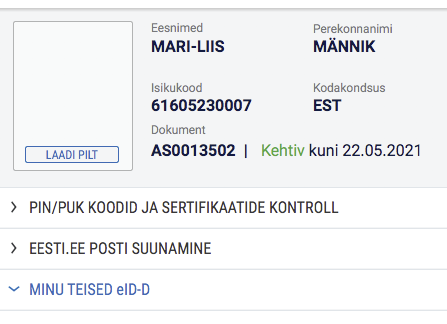
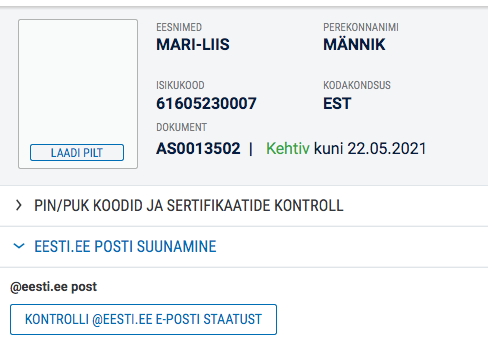
Remove "Manage Mobile ID" from First Run page (#234)
- IB-5222

diff --git a/client/translations/ru.ts b/client/translations/ru.ts
@@ -1133,8 +1133,8 @@ Learn more info here:</source>
         <translation>DigiDoc приложение может использоваться для шифрования и расшифровки данных. Для шифрования программа использует сертификат идентификации ID-карты.</translation>
     </message>
     <message>
-        <source>Manage your ID-card’s PIN/PUK codes and handle certificate renewals. View and manage your other electronic identities.</source>
-        <translation>Управлять PIN/PUK кодами Вашей ID-карты и обновлением сертификатов. Просма&#173;тривать и управлять другими Вашими электронными удостоверениями (eID).</translation>
+        <source>Manage your ID-card’s PIN/PUK codes and handle certificate renewals.</source>
+        <translation>Управлять PIN/PUK кодами Вашей ID-карты и обновлением сертификатов.</translation>
     </message>
     <message>
         <source>How to sign document digitally?</source>
@@ -1197,20 +1197,12 @@ Learn more info here:</source>
         <translation>Управление PIN и PUK кодами</translation>
     </message>
     <message>
-        <source>Manage Mobile-ID or Digi-ID</source>
-        <translation>Управление Mobiil-ID и Digi-ID</translation>
-    </message>
-    <message>
         <source>Check personal data</source>
         <translation>Проверка личных данных</translation>
     </message>
     <message>
         <source>Under "My eID", you will find the option to modify your PIN1, PIN2 and PUK, and the details of the certificates. Here you can also unlock the PUK code of your blocked PIN.</source>
         <translation>В «Мой eID» можно изменить свои PIN1, PIN2 и PUK, и увидеть данные сертификатов. Также можно разблокировать PUK-кодом заблокированный PIN-код.</translation>
-    </message>
-    <message>
-        <source>To view information about Mobile-ID and Digi-ID, you must first enter the PIN1 code. The page shows details about the validity of these certificates.</source>
-        <translation>Чтобы просмотреть информацию о Mobiil-ID и Digi-ID, вы должны сначала ввести PIN1 код. Вам будут показаны данные о действительности этих сертификатов.</translation>
     </message>
     <message>
         <source>"My eID" also provides a good overview of your contact information and offers the opportunity to forward your email to @eesti.ee address.</source>

diff --git a/client/translations/et.ts b/client/translations/et.ts
@@ -1127,8 +1127,8 @@ Rohkem infot leiate siit:</translation>
         <translation>DigiDoc rakendusega saad ka andmeid salasta&#173;da ja krüpteeritud andmeid muuta uuesti kõigile loetavaks. Salastatud konfidentsiaalseid doku&#173;mente saavad lugeda ainult soovitud inimesed.</translation>
     </message>
     <message>
-        <source>Manage your ID-card’s PIN/PUK codes and handle certificate renewals. View and manage your other electronic identities.</source>
-        <translation>Halda oma ID-kaardi PIN ja PUK koode ning teosta sertifikaatide uuendusi. Vaata ja halda oma teisi elektroonilisi identiteete.</translation>
+        <source>Manage your ID-card’s PIN/PUK codes and handle certificate renewals.</source>
+        <translation>Halda oma ID-kaardi PIN ja PUK koode ning teosta sertifikaatide uuendusi.</translation>
     </message>
     <message>
         <source>How to sign document digitally?</source>
@@ -1191,20 +1191,12 @@ Rohkem infot leiate siit:</translation>
         <translation>Halda PIN ja PUK koode</translation>
     </message>
     <message>
-        <source>Manage Mobile-ID or Digi-ID</source>
-        <translation>Halda Mobiil-ID-d või Digi-ID-d</translation>
-    </message>
-    <message>
         <source>Check personal data</source>
         <translation>Kontrolli isikuandmeid</translation>
     </message>
     <message>
         <source>Under "My eID", you will find the option to modify your PIN1, PIN2 and PUK, and the details of the certificates. Here you can also unlock the PUK code of your blocked PIN.</source>
         <translation>“Minu eID” alt leiad oma PIN1, PIN2 ja PUK koodi muutmise võimaluse ning sertifikaatide detail&#173;andmed. Siin saad ka oma blokeeritud PIN-e PUK koodi abil lukust lahti teha.</translation>
-    </message>
-    <message>
-        <source>To view information about Mobile-ID and Digi-ID, you must first enter the PIN1 code. The page shows details about the validity of these certificates.</source>
-        <translation>Mobiil-ID ja Digi-ID andmete vaatamiseks pead esmalt sisestama PIN1 koodi. Siit saad infot nende sertifikaatide kehtivuse kohta.</translation>
     </message>
     <message>
         <source>"My eID" also provides a good overview of your contact information and offers the opportunity to forward your email to @eesti.ee address.</source>

diff --git a/client/translations/en.ts b/client/translations/en.ts
@@ -1132,8 +1132,8 @@ Learn more info here:</translation>
         <translation>DigiDoc Client can also be used to encrypt data and decrypt the previously encrypted data. For encryption the program uses the authentication certificate of the ID-card.</translation>
     </message>
     <message>
-        <source>Manage your ID-card’s PIN/PUK codes and handle certificate renewals. View and manage your other electronic identities.</source>
-        <translation>Manage your ID-card’s PIN/PUK codes and handle certificate renewals. View and manage your other electronic identities.</translation>
+        <source>Manage your ID-card’s PIN/PUK codes and handle certificate renewals.</source>
+        <translation>Manage your ID-card’s PIN/PUK codes and handle certificate renewals.</translation>
     </message>
     <message>
         <source>How to sign document digitally?</source>
@@ -1196,20 +1196,12 @@ Learn more info here:</translation>
         <translation>Manage PIN and PUK codes</translation>
     </message>
     <message>
-        <source>Manage Mobile-ID or Digi-ID</source>
-        <translation>Manage Mobile-ID or Digi-ID</translation>
-    </message>
-    <message>
         <source>Check personal data</source>
         <translation>Check personal data</translation>
     </message>
     <message>
         <source>Under "My eID", you will find the option to modify your PIN1, PIN2 and PUK, and the details of the certificates. Here you can also unlock the PUK code of your blocked PIN.</source>
         <translation>Under “My eID“, you will find the option to modify your PIN1, PIN2 and PUK, and you can see the details of the certificates. Here you can also unlock your blocked PIN codes with the PUK code.</translation>
-    </message>
-    <message>
-        <source>To view information about Mobile-ID and Digi-ID, you must first enter the PIN1 code. The page shows details about the validity of these certificates.</source>
-        <translation>To view information about Mobile-ID and Digi-ID, you must first enter the PIN1 code. The page shows details about the validity of these certificates.</translation>
     </message>
     <message>
         <source>"My eID" also provides a good overview of your contact information and offers the opportunity to forward your email to @eesti.ee address.</source>

diff --git a/client/dialogs/FirstRun.cpp b/client/dialogs/FirstRun.cpp
@@ -176,18 +176,13 @@ FirstRun::FirstRun(QWidget *parent) :
 	// Page 5: My eID
 	ui->eidTitle->setFont(titleFont);
 	ui->labelEid1->setFont(dmLabelFont);
-	ui->labelEid2->setFont(dmLabelFont);
 	ui->labelEid3->setFont(dmLabelFont);
 	ui->textEid1->setFont(regular14);
-	ui->textEid2->setFont(regular14);
 	ui->textEid3->setFont(regular14);
 
 	ui->enter->setFont(buttonFont);
 	connect(ui->enter, &QPushButton::clicked, this, [this](){ emit close(); });
 
-	QPixmap eid2 = QPixmap(":/images/intro_eid-other.png");
-	ui->eidImage2->setProperty("PICTURE", eid2);
-	ui->eidImage2->setPixmap(eid2.scaled(298, 216, Qt::IgnoreAspectRatio, Qt::SmoothTransformation));
 	connect(ui->gotoSigning_3, &QPushButton::clicked, this, [this](){ui->stack->setCurrentIndex(Signing);});
 	connect(ui->gotoEncryption_3, &QPushButton::clicked, this, [this](){ui->stack->setCurrentIndex(Encryption);});
 
